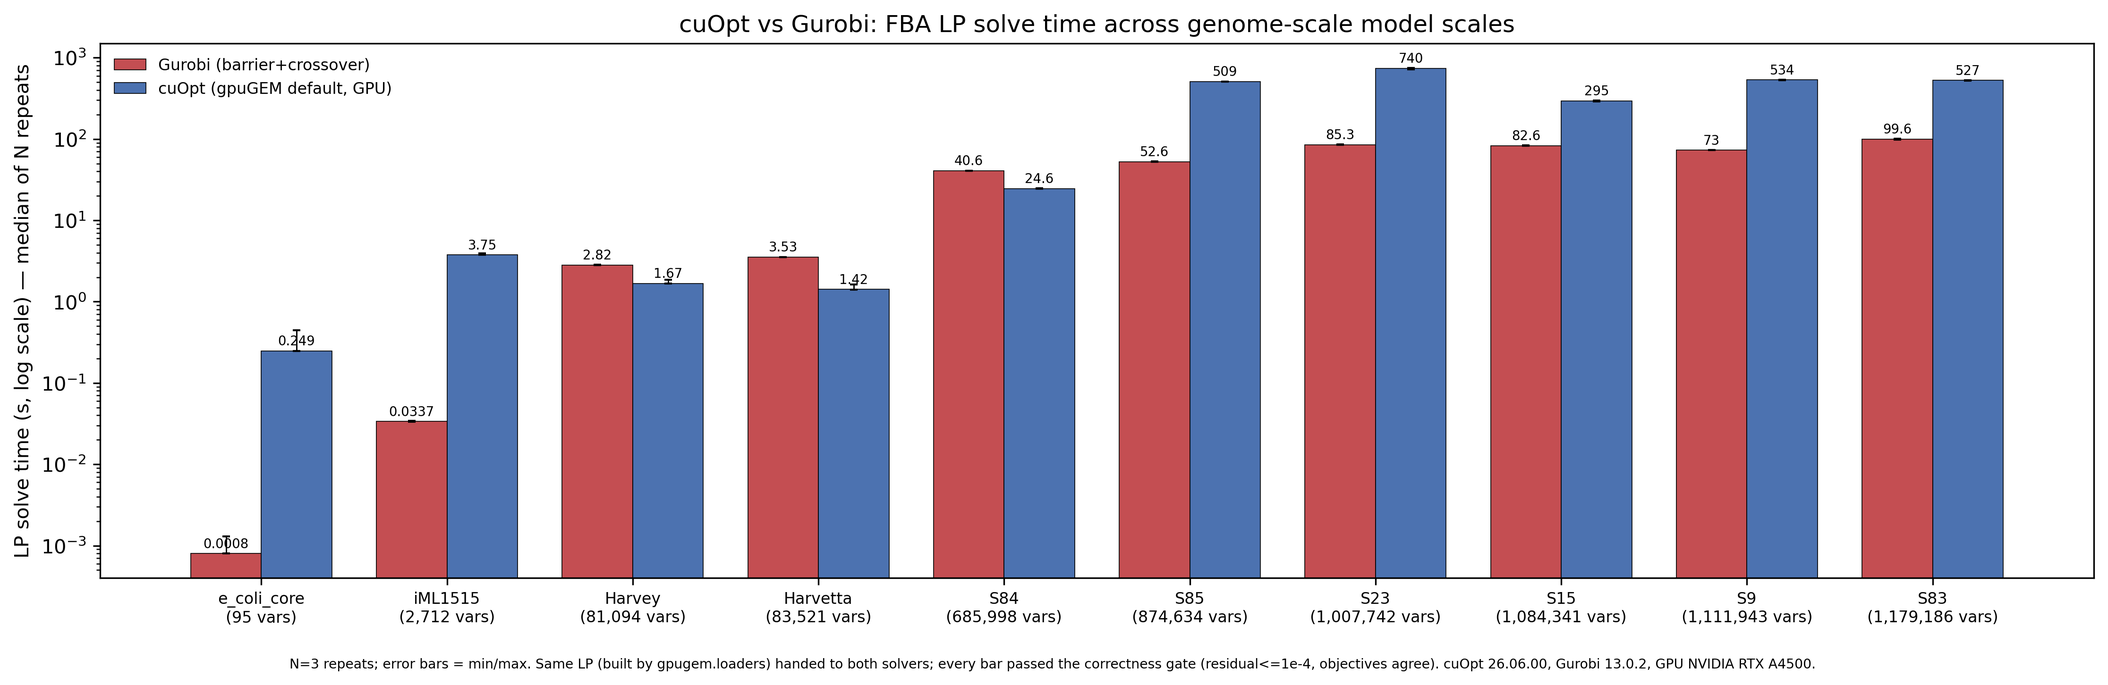
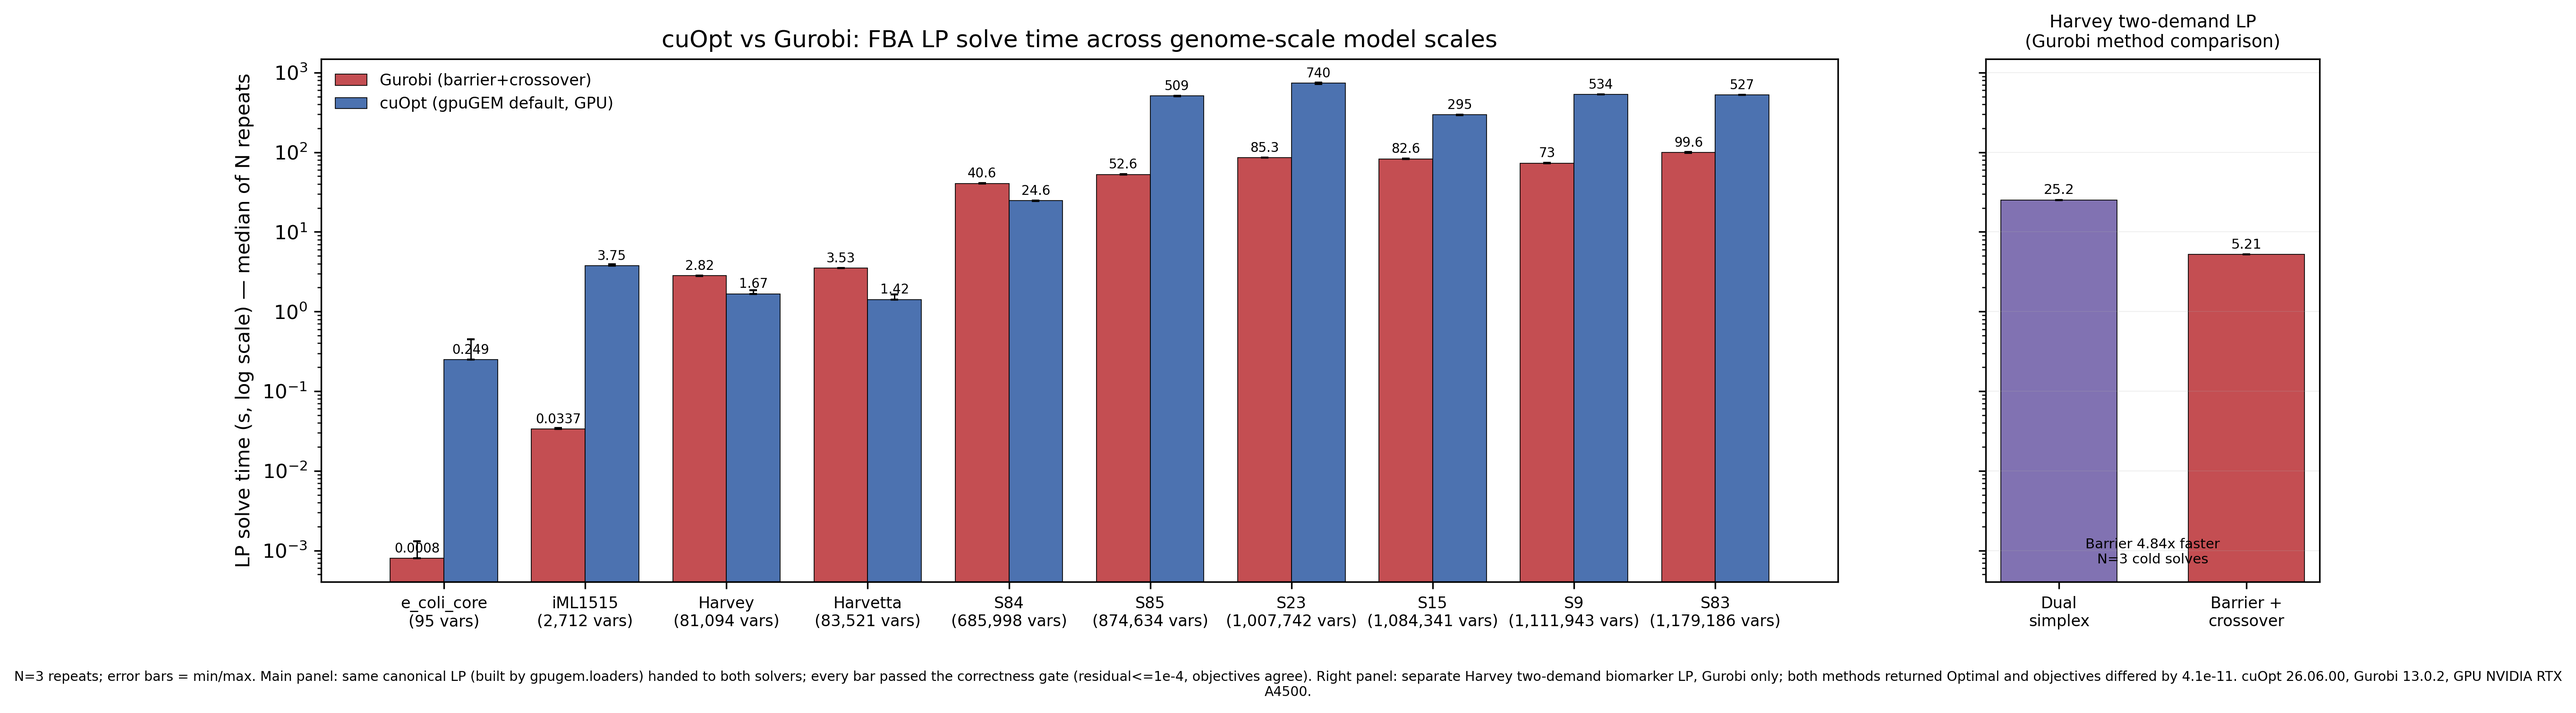
Add the gurobi sual simplex results

diff --git a/benchmarks/make_figure.py b/benchmarks/make_figure.py
@@ -4,6 +4,7 @@
 """
 from __future__ import annotations
 
+import json
 from pathlib import Path
 
 import numpy as np
@@ -14,6 +15,7 @@ import matplotlib.pyplot as plt
 
 HERE = Path(__file__).resolve().parent
 CSV = HERE / "results" / "benchmark.csv"
+HARVEY_DEMAND = HERE / "results" / "harvey_two_demand_gurobi.json"
 OUT = HERE / "figures" / "benchmark_solvetime.png"
 
 def main():
@@ -24,7 +26,15 @@ def main():
     x = np.arange(len(df))
     w = 0.38
 
-    fig, ax = plt.subplots(figsize=(max(8.2, 1.5 * len(df)), 4.6))
+    has_demand = HARVEY_DEMAND.exists()
+    if has_demand:
+        fig = plt.figure(figsize=(max(11.0, 1.5 * len(df) + 3.2), 4.8))
+        grid = fig.add_gridspec(1, 2, width_ratios=[max(len(df), 4), 2.2], wspace=0.16)
+        ax = fig.add_subplot(grid[0, 0])
+        demand_ax = fig.add_subplot(grid[0, 1], sharey=ax)
+    else:
+        fig, ax = plt.subplots(figsize=(max(8.2, 1.5 * len(df)), 4.6))
+        demand_ax = None
     b1 = ax.bar(x - w / 2, df["gurobi_solve_s_median"], w, label="Gurobi (barrier+crossover)",
                 color="#c44e52", edgecolor="black", linewidth=0.4)
     b2 = ax.bar(x + w / 2, df["cuopt_solve_s_median"], w, label="cuOpt (gpuGEM default, GPU)",
@@ -59,10 +69,15 @@ def main():
             ax.annotate("gate\nfail", (x[i], ax.get_ylim()[0]), ha="center", va="bottom",
                         fontsize=6, color="red")
 
+    if demand_ax is not None:
+        _plot_harvey_demand_panel(demand_ax)
+
     v = df.iloc[0]
-    cap = ("N=%d repeats; error bars = min/max. Same LP (built by gpugem.loaders) handed to both "
+    cap = ("N=%d repeats; error bars = min/max. Main panel: same canonical LP (built by "
+           "gpugem.loaders) handed to both "
            "solvers; every bar passed the correctness gate (residual<=1e-4, objectives agree). "
-           "cuOpt %s, Gurobi %s, GPU %s.") % (
+           "Right panel: separate Harvey two-demand biomarker LP, Gurobi only; both methods "
+           "returned Optimal and objectives differed by 4.1e-11. cuOpt %s, Gurobi %s, GPU %s.") % (
         _reps_from_csv(df), v["cuopt_version"], v["gurobi_version"], v["gpu_name"])
     fig.text(0.5, -0.02, cap, ha="center", va="top", fontsize=6.8, wrap=True)
 
@@ -70,6 +85,30 @@ def main():
     fig.tight_layout()
     fig.savefig(OUT, dpi=300, bbox_inches="tight")
     print("wrote", OUT)
+
+
+def _plot_harvey_demand_panel(ax):
+    data = json.loads(HARVEY_DEMAND.read_text())
+    methods = [data["methods"]["dual_simplex"], data["methods"]["barrier_crossover"]]
+    medians = np.array([m["solve_s_median"] for m in methods])
+    minima = np.array([m["solve_s_min"] for m in methods])
+    maxima = np.array([m["solve_s_max"] for m in methods])
+    x = np.arange(len(methods))
+    bars = ax.bar(x, medians, 0.62, color=["#8172b2", "#c44e52"],
+                  edgecolor="black", linewidth=0.4)
+    ax.errorbar(x, medians, yerr=[medians - minima, maxima - medians], fmt="none",
+                ecolor="black", elinewidth=0.7, capsize=2)
+    ax.set_xticks(x)
+    ax.set_xticklabels(["Dual\nsimplex", "Barrier +\ncrossover"], fontsize=8)
+    ax.set_title("Harvey two-demand LP\n(Gurobi method comparison)", fontsize=9)
+    ax.tick_params(axis="y", labelleft=False)
+    ax.grid(axis="y", alpha=0.18, linewidth=0.5)
+    for rect, value in zip(bars, medians):
+        ax.annotate("%.3g" % value, (rect.get_x() + rect.get_width() / 2, value),
+                    ha="center", va="bottom", fontsize=7, xytext=(0, 1.5),
+                    textcoords="offset points")
+    ax.text(0.5, 0.03, "Barrier 4.84x faster\nN=3 cold solves",
+            transform=ax.transAxes, ha="center", va="bottom", fontsize=7)
 
 
 def _reps_from_csv(df):

diff --git a/benchmarks/README.md b/benchmarks/README.md
@@ -67,6 +67,14 @@ python -m benchmarks.run_benchmark --all --reps 3               # all (resumable
 python -m benchmarks.make_figure                                # figure from CSV, no GPU
 ```
 
+The figure's right-hand panel is a separate Gurobi-only method comparison on the
+Harvey Kynuric two-demand biomarker LP (`C02470[bc]` and `kynate[bc]`, both
+increased). Its three cold repeats are stored in
+`results/harvey_two_demand_gurobi.json`: dual simplex has a 25.245 s median and
+barrier with default crossover has a 5.215 s median (4.84x faster). This
+supplemental problem is labelled separately because it is not the canonical
+whole-body-objective Harvey LP used in the main cross-solver panel.
+
 `--all` skips models whose `results/<model>.json` already exists unless `--force`.
 
 Model file locations can be overridden with `MWBM_DIR` and `HARVEY_MAT` env vars.
